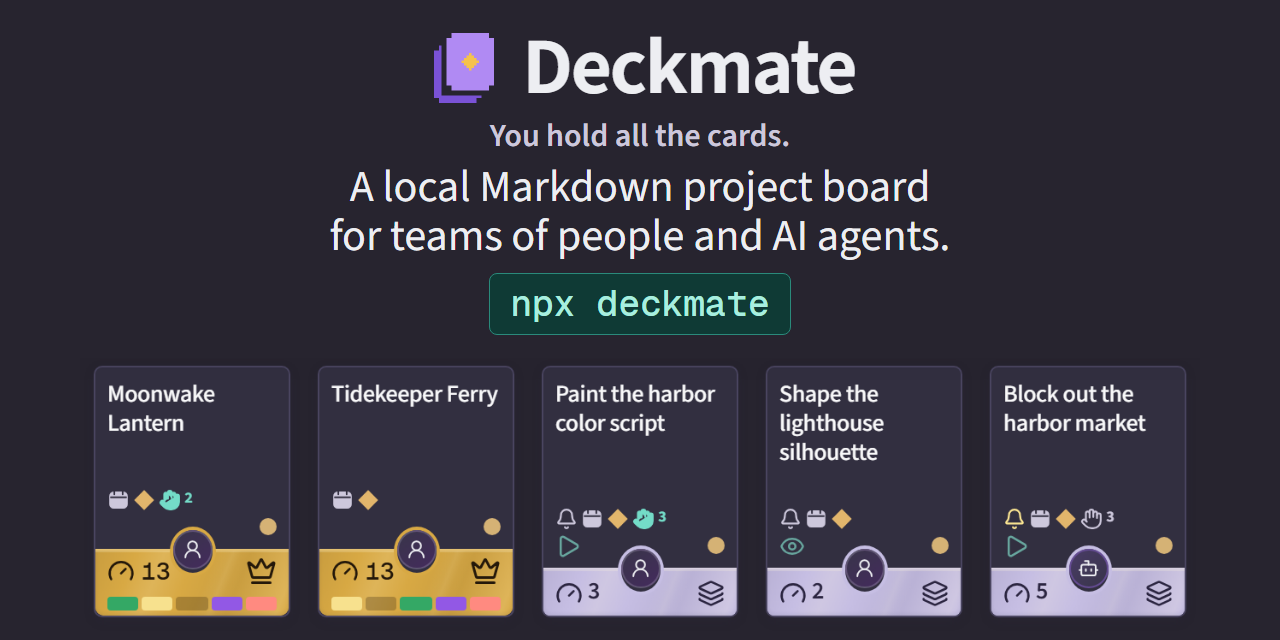
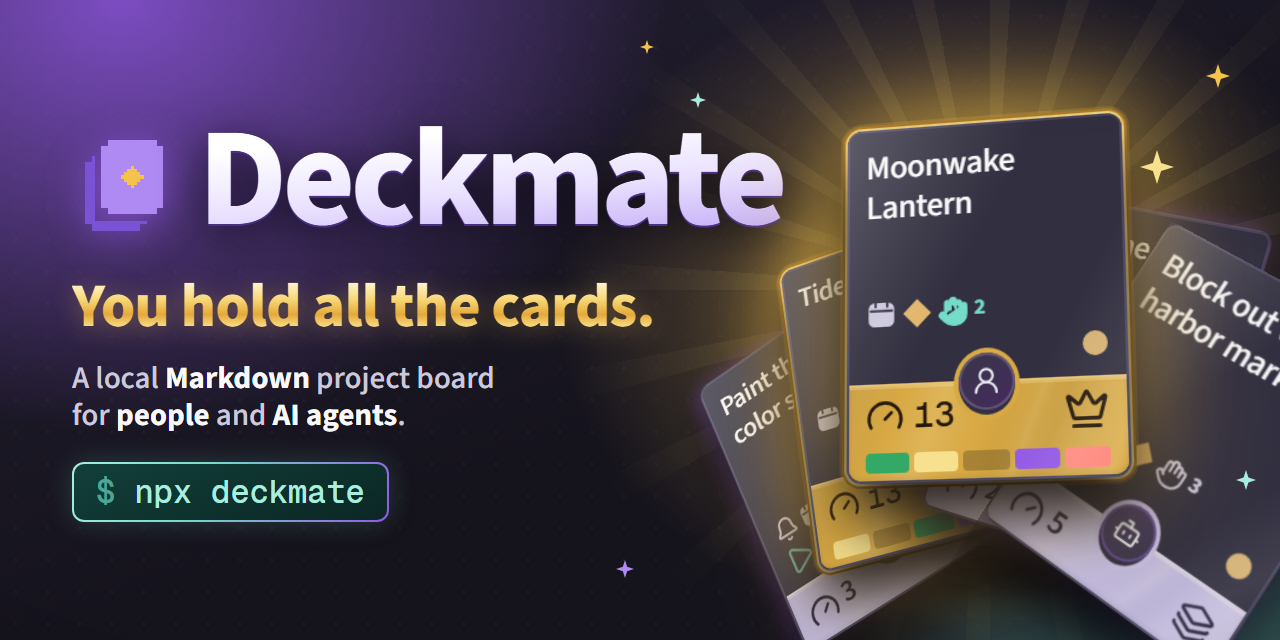
docs: bolder social preview with a fanned hand of real cards (#3)
* docs: bolder social preview with a fanned hand of real cards

The link preview now leads with a large wordmark and the gold slogan
"You hold all the cards." on the left and fans five cards from the real
social-cards.png capture on the right, so the product reads at 320x160
in chat link cards. Same pipeline: social-preview.html + npm run shots.

* docs: premium 3D finish for the social preview

Tilts the hand of cards in perspective with depth per card, adds a glare
across card faces, metallic gradients on the wordmark and slogan, a
gradient border on the npx chip and a vignette. 1280x640, 612,138 bytes.

* docs: bolder social preview with golden rays and a straighter front Hero

Larger, heavier type; hotter glows; golden rays behind the hand; a deeper
3D tilt for the fan while the front Hero is countered to face the viewer
almost square. The fan container now ends at the frame edge so the
shots frame check passes.

---------

diff --git a/docs/social-preview.html b/docs/social-preview.html
@@ -4,31 +4,93 @@
   <meta charset="utf-8">
   <meta name="viewport" content="width=1280, initial-scale=1">
   <title>Deckmate — a local Markdown project board for teams of people and AI agents</title>
-  <!-- 2026-11-05: GitHub link preview, 1280×640; rendered by `npm run shots` from docs/social-cards.png. -->
+  <!-- 2026-11-07: GitHub link preview, 1280×640; rendered by `npm run shots`. The fanned cards are crops of the real
+       docs/social-cards.png capture (five cards, 230×294 px each, 262 px apart, 16 px inset), not redrawn UI. -->
   <style>
     @font-face { font-family: "Source Sans 3"; src: url('../assets/fonts/source-sans-3/SourceSans3-latin-wght.woff2'); font-weight: 200 900; }
     @font-face { font-family: "Geist Mono"; src: url('../assets/fonts/geist/GeistMono-Medium.ttf'); font-weight: 500; }
-    :root { color-scheme: dark; --sidebar: #27242f; --ink: #edeef2; --muted: #cdc8dc; --mint: #a8eedf; --mint-ground: #0f3a35; --mint-edge: #2a8a7b; }
+    :root { color-scheme: dark; --night: #15131c; --ink: #f9f9fa; --muted: #cdc8dc; --plum: #9258e5; --gold: #f5c24c;
+      --champagne: #f7e18e; --hero: #e5b650; --mint: #a8eedf; --mint-ground: #0f3a35; --mint-edge: #2a8a7b; }
     * { box-sizing: border-box; }
-    body { margin: 0; width: 1280px; height: 640px; overflow: hidden; background: var(--sidebar); color: var(--ink); font-family: "Source Sans 3", sans-serif; text-align: center; }
-    header { display: flex; align-items: center; justify-content: center; gap: 18px; padding-top: 28px; }
-    .logo { width: 80px; height: 80px; }
-    h1 { margin: 0; font-size: 80px; font-weight: 650; line-height: 1; letter-spacing: -.025em; }
-    .slogan { margin: 10px 0 8px; color: var(--muted); font-size: 32px; font-weight: 600; line-height: 1.15; }
-    .tagline { margin: 0 0 12px; color: var(--ink); font-size: 44px; line-height: 1.12; }
-    code { display: inline-block; padding: 8px 20px; border: 1px solid var(--mint-edge); border-radius: 8px; background: var(--mint-ground); color: var(--mint); font: 500 36px/1.2 "Geist Mono", monospace; }
-    .cards { position: absolute; left: 80px; right: 80px; top: 352px; }
-    .cards img { display: block; width: 100%; height: auto; }
+    body { margin: 0; background: var(--night); color: var(--ink); font-family: "Source Sans 3", sans-serif; }
+    .stage { position: relative; width: 1280px; height: 640px; overflow: hidden;
+      background:
+        radial-gradient(560px 460px at 960px 300px, #f5c24c80, #e5b65030 45%, transparent 72%),
+        radial-gradient(760px 600px at 120px 0px, #9258e5cc, transparent 72%),
+        radial-gradient(560px 400px at 1200px 660px, #74dcc866, transparent 70%),
+        linear-gradient(160deg, #241f33, var(--night) 60%); }
+    /* A faint pixel grid recalls the board and the pixel mark without competing with the cards. */
+    .stage::after { content: ""; position: absolute; inset: 0; pointer-events: none; background: radial-gradient(130% 120% at 50% 45%, transparent 55%, #0000008c); }
+    .stage::before { content: ""; position: absolute; inset: 0; opacity: .35;
+      background-image: radial-gradient(#ffffff26 1.2px, transparent 1.6px); background-size: 32px 32px; }
+    .copy { position: absolute; left: 72px; top: 0; bottom: 0; width: 600px; display: flex; flex-direction: column; justify-content: center; }
+    .brand { display: flex; align-items: center; gap: 22px; }
+    .logo { width: 104px; height: 104px; image-rendering: pixelated; filter: drop-shadow(0 6px 18px #9258e5aa); }
+    h1 { margin: 0; padding-bottom: 8px; font-size: 140px; font-weight: 800; line-height: .9; letter-spacing: -.035em;
+      background: linear-gradient(175deg, #ffffff 20%, #e9e0ff 55%, #b79cf2 100%); -webkit-background-clip: text; background-clip: text; color: transparent;
+      filter: drop-shadow(0 2px 0 #4b2f86) drop-shadow(0 10px 24px #0a0812cc); }
+    .slogan { margin: 24px 0 0; font-size: 62px; font-weight: 800; line-height: 1; letter-spacing: -.015em;
+      background: linear-gradient(180deg, #fff6d6 8%, #f7d775 38%, #e5a93a 62%, #f9dc86 82%, #c98d2a); -webkit-background-clip: text; background-clip: text; color: transparent;
+      filter: drop-shadow(0 3px 12px #e5b65055); }
+    .tagline { margin: 22px 0 28px; color: var(--muted); font-size: 31px; font-weight: 550; line-height: 1.2; }
+    .tagline b { color: var(--ink); font-weight: 700; }
+    code { align-self: flex-start; padding: 9px 22px; border: 2px solid transparent; border-radius: 12px;
+      background: linear-gradient(160deg, #123f3a, #0b2724) padding-box, linear-gradient(120deg, #a8eedf, #74dcc8 40%, #9258e5) border-box;
+      color: var(--mint); font: 500 32px/1.2 "Geist Mono", monospace; box-shadow: 0 0 28px #74dcc833; }
+    code::before { content: "$ "; color: #74dcc8aa; }
+    .cards { position: absolute; left: 700px; top: 70px; width: 580px; height: 540px; perspective: 1300px; }
+    .fan { position: absolute; inset: 0; transform-style: preserve-3d; transform: rotateX(16deg) rotateY(-22deg) rotateZ(4deg) scale(1.14); }
+    /* A soft floor shadow anchors the floating hand. */
+    .floor { position: absolute; left: 60px; right: 0; bottom: 6px; height: 90px; border-radius: 50%; background: radial-gradient(closest-side, #000000b0, transparent); filter: blur(6px); }
+    .card { position: absolute; left: 185px; top: 150px; width: 230px; height: 294px; overflow: hidden; border-radius: 12px;
+      transform-origin: 50% 165%; box-shadow: 0 30px 50px #07060cdd, 0 0 0 1px #ffffff26, -6px 0 22px #9258e566; }
+    /* Glare across the card face gives the matte top a lacquered, premium finish. */
+    .card::after { content: ""; position: absolute; inset: 0; border-radius: inherit; pointer-events: none;
+      background: linear-gradient(118deg, #ffffff38 0%, #ffffff10 28%, transparent 42%, transparent 70%, #ffffff14 86%, transparent 100%); }
+    .card img { position: absolute; top: -16px; left: calc(-16px - 262px * var(--i)); width: 1310px; height: 326px; }
+    .card.hero { box-shadow: 0 30px 50px #07060cdd, 0 0 0 2px #f9dc86, 0 0 0 4px #b8822a, 0 0 90px #f5c24cee, 0 0 0 6px #f5c24c33; }
+    .c0 { transform: rotate(-32deg) translateY(14px) translateZ(-60px); }
+    .c1 { transform: rotate(-15deg) translateY(-4px) translateZ(-10px); }
+    .c2 { transform: translate(34px, -40px) translateZ(60px) rotateZ(-4deg) rotateY(14deg) rotateX(-8deg); }
+    .c3 { transform: rotate(15deg) translateY(-4px) translateZ(10px); }
+    .c4 { transform: rotate(32deg) translateY(14px) translateZ(10px); }
+    /* Golden rays burst from behind the front Hero, like a winning card being shown. */
+    .rays { position: absolute; left: 990px; top: 290px; width: 1400px; height: 1400px; margin: -700px 0 0 -700px; border-radius: 50%; opacity: .55;
+      background: repeating-conic-gradient(from 0deg, #f7e18e40 0deg 4deg, transparent 4deg 15deg);
+      -webkit-mask: radial-gradient(closest-side, #000 8%, transparent 62%); mask: radial-gradient(closest-side, #000 8%, transparent 62%); }
+    /* Pixel sparkles in the mark's pip shape. */
+    .spark { position: absolute; width: 24px; height: 24px; background: var(--c); image-rendering: pixelated;
+      clip-path: polygon(50% 0, 62% 38%, 100% 50%, 62% 62%, 50% 100%, 38% 62%, 0 50%, 38% 38%); filter: drop-shadow(0 0 8px var(--c)); }
   </style>
 </head>
 <body>
-  <header>
-    <img class="logo" src="../assets/logo/deckmate-256.png" alt="Deckmate logo">
-    <h1>Deckmate</h1>
-  </header>
-  <p class="slogan">You hold all the cards.</p>
-  <p class="tagline">A local Markdown project board<br>for teams of people and AI agents.</p>
-  <code>npx deckmate</code>
-  <div class="cards"><img src="social-cards.png" alt="Cards of the sample project: two golden Heroes and tasks with owners, effort and progress"></div>
+  <main class="stage">
+    <div class="rays"></div>
+    <section class="copy">
+      <div class="brand">
+        <img class="logo" src="../assets/logo/deckmate-256.png" alt="Deckmate logo">
+        <h1>Deckmate</h1>
+      </div>
+      <p class="slogan">You hold all the cards.</p>
+      <p class="tagline">A local <b>Markdown</b> project board<br>for <b>people</b> and <b>AI agents</b>.</p>
+      <code>npx deckmate</code>
+    </section>
+    <div class="cards" aria-label="Five real cards from the sample project, fanned like a hand">
+      <div class="floor"></div>
+      <div class="fan">
+      <div class="card c0" style="--i: 2"><img src="social-cards.png" alt=""></div>
+      <div class="card c1 hero" style="--i: 1"><img src="social-cards.png" alt=""></div>
+      <div class="card c2 hero" style="--i: 0"><img src="social-cards.png" alt="Moonwake Lantern, a golden Hero card"></div>
+      <div class="card c3" style="--i: 3"><img src="social-cards.png" alt=""></div>
+      <div class="card c4" style="--i: 4"><img src="social-cards.png" alt="A task owned by an AI agent"></div>
+      </div>
+    </div>
+    <i class="spark" style="--c: #f5c24c; left: 1206px; top: 64px"></i>
+    <i class="spark" style="--c: #a8eedf; left: 690px; top: 92px; width: 16px; height: 16px"></i>
+    <i class="spark" style="--c: #b08af3; left: 616px; top: 560px; width: 18px; height: 18px"></i>
+    <i class="spark" style="--c: #f7e18e; left: 1140px; top: 150px; width: 34px; height: 34px"></i>
+    <i class="spark" style="--c: #a8eedf; left: 1236px; top: 470px; width: 20px; height: 20px"></i>
+    <i class="spark" style="--c: #f5c24c; left: 640px; top: 40px; width: 14px; height: 14px"></i>
+  </main>
 </body>
 </html>
